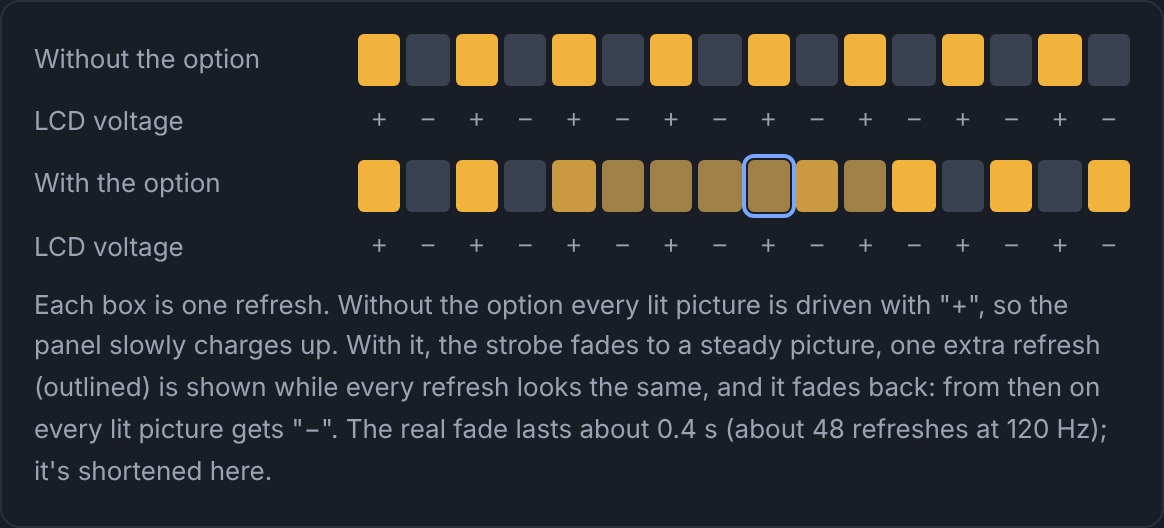
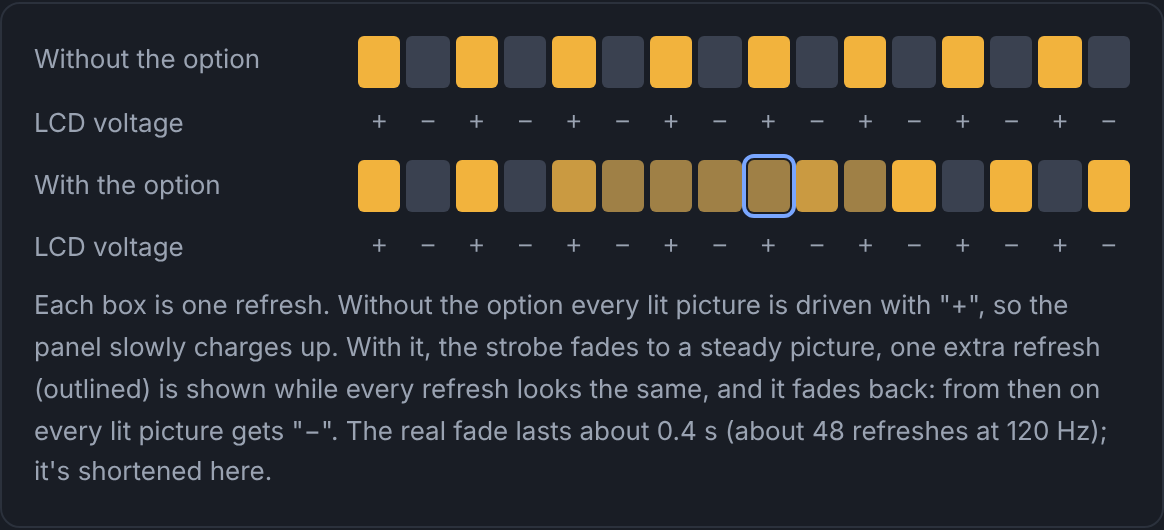
Settings guide: frames-per-cycle, frame pipeline and frame pacing diagrams
Claude-Session: https://claude.ai/code/session_01XmXNcKDVNfHtqb2xhXFyVC

diff --git a/docs/settings-guide.md b/docs/settings-guide.md
@@ -35,6 +35,11 @@ The main switch. Off, BFI Presenter still shows the game but without any dark fr
 How many refreshes make up one flash cycle: 2 means "one lit, one dark". 3 or 4 means one lit and two or three dark, which is even sharper but darker, and flickers at a lower rate.\
 *When to change it:* keep 2 at 120 Hz. Higher values are for 240 Hz+ displays; pair them with the **One game frame per strobe cycle** frame cap, so each game image gets exactly one flash.
 
+<picture>
+  <source media="(prefers-color-scheme: dark)" srcset="img/frames-per-cycle-dark.png">
+  <img src="img/frames-per-cycle-light.png" alt="The same 1/15 s at 120 Hz with 2 frames, 240 Hz with 4, 360 Hz with 6, 360 Hz with 6 inverted, and 120 Hz with 2 frames at 30 fps: more frames per cycle give a shorter flash but less light; inverted is bright but barely sharper; at 30 fps each image is flashed twice." width="760">
+</picture>
+
 **Gain vs blur** · `Gain` · default: 0.5 (recommended 1.0)\
 How much of the lost brightness to win back. At 0.5 the lit frame looks exactly like the normal picture, so the overall image is half as bright. At 1.0 the lit frame is boosted to make up the difference, so the average brightness is close to normal.\
 *When to change it:* use 1.0 on bright displays (most OLEDs in HDR). Lower it if highlights look washed out or the screen dims in bright scenes.
@@ -94,6 +99,16 @@ OLED screens have a power limit: when a lot of the screen is bright at once, the
 ## Smoothness and latency
 
 BFI only looks right if every new game image lands exactly on a lit refresh. These settings decide how BFI Presenter paces the game to make that happen, and how much input delay you trade for smoothness.
+
+<picture>
+  <source media="(prefers-color-scheme: dark)" srcset="img/frame-pipeline-dark.png">
+  <img src="img/frame-pipeline-light.png" alt="Where a frame waits: the game starts it (frame cap, just-in-time release), the graphics card draws it (frames ahead), finished images wait for a lit refresh (Smooth or Lowest latency), and the presenter shows one present per refresh (presenter buffers, queue one refresh ahead)." width="760">
+</picture>
+
+<picture>
+  <source media="(prefers-color-scheme: dark)" srcset="img/frame-pacing-dark.png">
+  <img src="img/frame-pacing-light.png" alt="Image D finishes too late. Lowest latency shows C twice and skips D; Smooth shows C twice and then every image in order, one flash later." width="760">
+</picture>
 
 **Game frame cap** · `CapGameToRefresh` · default: Refresh rate\
 Limits how fast the game runs so it stays in step with the flashing.
